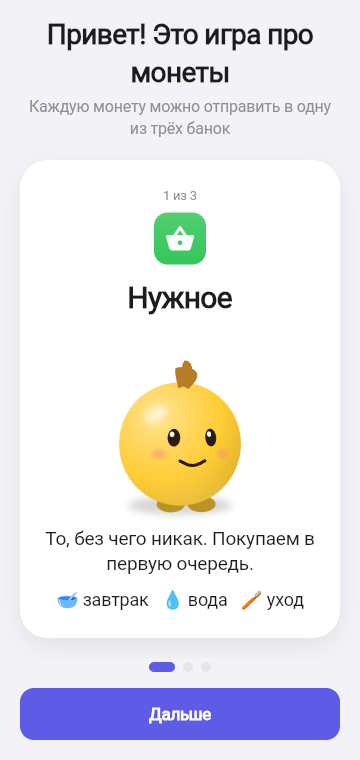
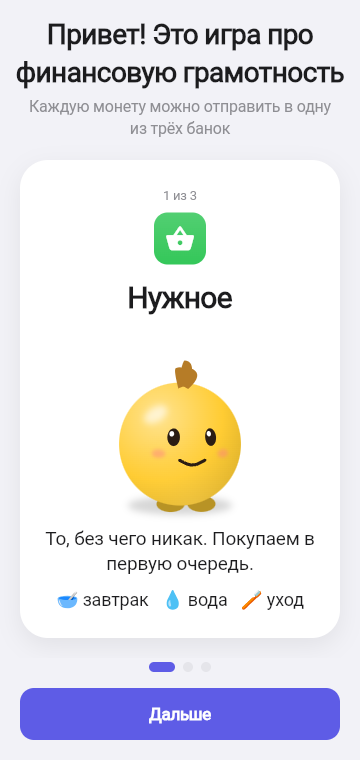
F-038: onboarding — 'a game about financial literacy' title, the pet greets the player in 4 lines (clean and happy) before the first day's wishes

Changed region(s): [[0.0306, 0.0605, 0.9472, 0.1211], [0.5194, 0.6053, 0.55, 0.6355], [0.4583, 0.5447, 0.4889, 0.575]]

diff --git a/client/lib/ui/tabs/home_tab.dart b/client/lib/ui/tabs/home_tab.dart
@@ -36,6 +36,9 @@ class _HomeTabState extends State<HomeTab> {
 
   /// Реплика о самочувствии после тапа по герою (F-020 BR-07).
   String? _moodLine;
+
+  /// Шаг знакомства героя с игроком (F-038).
+  int _greet = 1;
   int _moodGen = 0;
 
   void _sayMood() {
@@ -76,18 +79,27 @@ class _HomeTabState extends State<HomeTab> {
               child: RoomScene(
                 inventory: game.inventory,
                 bowls: game.bowls,
-                time: wish.dayTime, // утро → день → вечер → ночь по шагам дня (F-028)
+                time: game.greeting ? DayTime.morning : wish.dayTime, // утро → день → вечер → ночь по шагам дня (F-028)
                 room: room,
                 feetY: feetY,
                 heroScale: 0.78,
                 hero: MascotView(
-                  look: MascotLook.fromGame(game).withEmotion(_moodLine == null ? wish.emotion : null),
+                  look: MascotLook.fromGame(game).withEmotion(
+                    game.greeting ? PetEmotion.excited : (_moodLine == null ? wish.emotion : null),
+                  ),
                   controller: _mascot,
                   size: heroSize,
                   semanticsLabel: name,
                   onTap: _sayMood,
                 ),
-                heroBadge: _moodLine != null
+                heroBadge: game.greeting
+                    ? PetSpeech(
+                        text: game.content.text('greet.$_greet', {'pet': name, 'player': game.profile.playerName}),
+                        action: game.content.text('greet.$_greet.action'),
+                        actionKey: const Key('home.greet'),
+                        onAction: _nextGreet,
+                      )
+                    : _moodLine != null
                     ? PetSpeech(text: _moodLine!)
                     : PetSpeech(
                         text: wish.text,
@@ -201,6 +213,15 @@ class _HomeTabState extends State<HomeTab> {
       ],
     ),
   );
+
+  void _nextGreet() {
+    _mascot.jump();
+    if (_greet < 4) {
+      setState(() => _greet++);
+    } else {
+      game.finishGreeting();
+    }
+  }
 
   Color _accent(WishKind kind) => switch (kind) {
     WishKind.eat || WishKind.drink || WishKind.wash => FinniColors.need,

diff --git a/client/lib/store/snapshot.dart b/client/lib/store/snapshot.dart
@@ -259,6 +259,7 @@ final class GameSnapshot {
     this.needsDays = const [],
     this.dailyQuests = const [],
     this.claimed = const [],
+    this.introDone = true,
   });
 
   static const version = 1;
@@ -294,6 +295,7 @@ final class GameSnapshot {
       needsDays: [for (final d in j['needsDays'] as List? ?? const []) d as int],
       dailyQuests: _strings(j['dailyQuests'] ?? const <String>[]),
       claimed: _strings(j['claimed'] ?? const <String>[]),
+      introDone: j['introDone'] as bool? ?? true,
     );
   }
 
@@ -334,6 +336,9 @@ final class GameSnapshot {
   /// Забранные награды заданий: `d<день>:<id>`, `w<неделя>:<id>` (F-036).
   final List<String> claimed;
 
+  /// Знакомство с героем уже было (F-038). Старые сохранения — `true`.
+  final bool introDone;
+
   GameSnapshot copyWith({
     Profile? profile,
     EconomyState? economy,
@@ -357,6 +362,7 @@ final class GameSnapshot {
     List<int>? needsDays,
     List<String>? dailyQuests,
     List<String>? claimed,
+    bool? introDone,
   }) => GameSnapshot(
     profile: profile ?? this.profile,
     economy: economy ?? this.economy,
@@ -377,6 +383,7 @@ final class GameSnapshot {
     needsDays: needsDays ?? this.needsDays,
     dailyQuests: dailyQuests ?? this.dailyQuests,
     claimed: claimed ?? this.claimed,
+    introDone: introDone ?? this.introDone,
   );
 
   Map<String, dynamic> toJson() => {
@@ -400,5 +407,6 @@ final class GameSnapshot {
     'needsDays': needsDays,
     'dailyQuests': dailyQuests,
     'claimed': claimed,
+    'introDone': introDone,
   };
 }

diff --git a/client/test/game/game_controller_test.dart b/client/test/game/game_controller_test.dart
@@ -9,6 +9,7 @@ import 'package:finni/game/game_feedback.dart';
 import 'package:finni/game/quests.dart';
 import 'package:finni/content/lesson_models.dart';
 import 'package:finni/store/profile_store.dart';
+import 'package:finni/store/snapshot.dart';
 import 'package:flutter_test/flutter_test.dart';
 
 GameContent loadContent() => GameContent.fromJson({
@@ -422,6 +423,15 @@ void main() {
     expect(restarted.day, 6);
     expect(restarted.stage, 3);
     expect(restarted.economy.savings, game.economy.savings);
+  });
+
+  test('a new pet greets the player once (F-038)', () async {
+    expect(game.greeting, isTrue);
+    await game.finishGreeting();
+    expect(game.greeting, isFalse);
+    expect((await fresh()).greeting, isFalse);
+    final json = game.snapshot.toJson()..remove('introDone');
+    expect(GameSnapshot.fromJson(json).introDone, isTrue); // старые сохранения — без знакомства
   });
 
   test('every change is persisted', () async {

diff --git a/client/lib/game/game_controller.dart b/client/lib/game/game_controller.dart
@@ -141,6 +141,7 @@ final class GameController extends ChangeNotifier {
         lastSummary: null,
         soundOn: true,
         dailyQuests: [for (final q in pickDailyQuests(day: 1, hasNewTopic: true, hasStarted: false)) q.name],
+        introDone: false,
       ),
     );
   }
@@ -152,6 +153,10 @@ final class GameController extends ChangeNotifier {
   }
 
   Future<void> setSound(bool on) => _commit(snapshot.copyWith(soundOn: on));
+
+  /// Герой ещё не познакомился с игроком (F-038).
+  bool get greeting => !snapshot.introDone;
+  Future<void> finishGreeting() => _commit(snapshot.copyWith(introDone: true));
 
   // ---------- Облик (SA F-023) ----------
 

diff --git a/client/lib/ui/screens/intro_screen.dart b/client/lib/ui/screens/intro_screen.dart
@@ -58,7 +58,7 @@ class _IntroScreenState extends State<IntroScreen> {
           children: [
             const SizedBox(height: 16),
             Text(
-              widget.replay ? 'Как играть' : 'Привет! Это игра про монеты',
+              widget.replay ? 'Как играть' : 'Привет! Это игра про финансовую грамотность',
               textAlign: TextAlign.center,
               style: const TextStyle(fontSize: 28, fontWeight: FontWeight.w700, letterSpacing: -0.6),
             ),

diff --git a/client/test/ui/app_flow_test.dart b/client/test/ui/app_flow_test.dart
@@ -54,6 +54,11 @@ Future<void> onboard(WidgetTester t, String name) async {
   await t.enterText(find.byKey(const Key('hero.player')), name);
   await tapKey(t, 'hero.go');
   await settle(t, 20);
+  // F-038: герой знакомится — 4 реплики, потом обычный день.
+  for (var i = 0; i < 4; i++) {
+    await tapKey(t, 'home.greet');
+  }
+  expect(find.byKey(const Key('home.greet')), findsNothing);
 }
 
 Future<void> phone(WidgetTester t) async {

diff --git a/client/lib/ui/mascot/mascot_look.dart b/client/lib/ui/mascot/mascot_look.dart
@@ -47,7 +47,7 @@ final class MascotLook {
       accessories: {
         for (final id in game.inventory.worn) ?content.item(id).accessory,
       },
-      grubby: game.isGrubby,
+      grubby: game.isGrubby && !game.greeting, // на знакомстве герой чистый (F-038)
       joy: game.todaysJoy,
     );
   }

diff --git a/docs/work/ui/F-038_PET_GREETING_SA_SPEC.md b/docs/work/ui/F-038_PET_GREETING_SA_SPEC.md
@@ -1,0 +1,43 @@
+# Знакомство с питомцем после создания — системная спецификация (SA)
+
+| Поле | Значение |
+|------|----------|
+| **ID** | F-038 |
+| **Назначение** | Первый вход на Дом начинается со знакомства: герой здоровается, называет себя, рассказывает, чему будем учиться и как устроен день. Только потом — обычные желания дня |
+| **Репозиторий** | `Pet_Finni_hackathon` |
+| **Источник** | Запрос Егора 2026-09-24: «нужен онбординг: создал персонажа — он сразу воняет, хочет есть и пить, непонятно, что и как; надо, чтобы персонаж знакомился: „Привет, я твой питомец…, мы будем вместе изучать финансовую грамотность“; на старте — „игра про финансовую грамотность“» |
+| **Статус** | Согласовано Егором 2026-09-24 |
+| **Связанные артефакты** | F-008 (знакомство), F-020 (желания), F-023 (настройка), F-027 (неухоженный) |
+
+---
+
+## 3. Бизнес-требования
+
+| ID | Требование | Приоритет |
+|----|------------|-----------|
+| BR-01 | Первый экран знакомства: «Привет! Это игра про финансовую грамотность» | Must |
+| BR-02 | После создания героя на Доме — 4 реплики героя в облачке, каждая с кнопкой: знакомство («Привет, {игрок}! Я {питомец} — твой питомец»), чему учимся, как устроен день, главное правило | Must |
+| BR-03 | Во время знакомства герой чистый и радостный: без грязи и без голодных эмоций | Must |
+| BR-04 | После последней реплики («Начнём!») — обычная цепочка желаний, первое — план с подписанным доходом | Must |
+| BR-05 | Знакомство показывается один раз; сохраняется; старые сохранения его не видят | Must |
+
+## 4. Описание
+
+| Шаг | Реплика | Кнопка |
+|-----|---------|--------|
+| 1 | Привет, {игрок}! Я {питомец} — твой питомец. Будем знакомы! | Привет! |
+| 2 | Мы вместе будем учиться финансовой грамотности: планировать монеты, копить на мечту и выбирать с умом. | Здорово! |
+| 3 | Каждый день я буду о чём-то просить: покушать, помыться, узнать новое. А ты решаешь, на что потратить монеты. | Понятно |
+| 4 | Главное правило: сначала нужное, потом хотелки. Начнём? | Начнём! |
+
+| Слой | Путь |
+|------|------|
+| Хранение | `store/snapshot.dart` (`introDone`, по умолчанию `true` для старых сохранений) |
+| Контроллер | `game/game_controller.dart` (`greeting`, `finishGreeting`) |
+| Дом | `ui/tabs/home_tab.dart` (реплики `greet.*`, ключ `home.greet`) |
+| Маскот | `ui/mascot/mascot_look.dart` (без грязи во время знакомства) |
+| Тексты | `assets/content/copy.json` (`greet.1…4`, `greet.1.action…`) |
+
+## 9. Тестирование
+
+`game_controller_test`: новый профиль — `greeting`, после `finishGreeting` — нет и сохраняется; старый JSON без поля — без знакомства; `app_flow_test`: знакомство проходится на 360 dp, затем «План».

diff --git a/docs/business/01_START_AND_FINIK.md b/docs/business/01_START_AND_FINIK.md
@@ -9,7 +9,7 @@
 ## Как это работает
 
 1. **Кто заходит?** Ребёнок или взрослый. Взрослый попадает в раздел прогресса за удержанием кнопки 3 секунды (без оценок, со сбросом профиля).
-2. **Знакомство** — три карточки: нужное, хочу, отложить.
+2. **«Привет! Это игра про финансовую грамотность»** — три карточки: нужное, хочу, отложить.
 3. **Настрой Финика** — живой 3D-герой в центре и выбор:
    - открыты сразу: **Финик** (хохолок / чёлка / пучки), **Котик** (ушки и усики), **Зайка** (длинные ушки), **Мишка** (круглые ушки и носик);
    - **Жираф** (рожки и пятнышки) — копится: цель «Облик Жираф» в Копилке, 45 монет;
@@ -19,6 +19,17 @@
    - 8 цветов палитры (у Мартышки свой цвет);
    - имя героя и игровое имя ребёнка (фамилия и телефон не нужны).
 4. Позже облик меняется бесплатно: **Одежда → Облик** (четвёртый скриншот).
+5. **Знакомство.** На Доме герой — чистый и радостный — здоровается и рассказывает о игре, четыре реплики с кнопками:
+   - «Привет, Аня! Я Финя — твой питомец. Будем знакомы!» — «Привет!»
+   - «Мы вместе будем учиться финансовой грамотности: планировать монеты, копить на мечту и выбирать с умом.» — «Здорово!»
+   - «Каждый день я буду о чём-то просить: покушать, помыться, узнать новое. А ты решаешь, на что потратить монеты.» — «Понятно»
+   - «Главное правило: сначала нужное, потом хотелки. Начнём?» — «Начнём!»
+
+   Только после этого начинается обычный день: первое желание — план с подписанным доходом «40 на старт и 20 карманных».
+
+<p>
+<img src="img/home_greet.png" width="200"> <img src="img/home_plan.png" width="200">
+</p>
 
 ## Правила
 
@@ -29,4 +40,4 @@
 | Смена облика | бесплатно, монеты не тратятся |
 | Данные | только игровое имя и имя героя, хранятся на устройстве |
 
-SA: [F-023](../work/ui/F-023_FINIK_STYLE_SA_SPEC.md), [F-008](../work/ui/F-008_ONBOARDING_SA_SPEC.md).
+SA: [F-023](../work/ui/F-023_FINIK_STYLE_SA_SPEC.md), [F-038](../work/ui/F-038_PET_GREETING_SA_SPEC.md), [F-037](../work/ui/F-037_MORE_CHARACTERS_SA_SPEC.md), [F-008](../work/ui/F-008_ONBOARDING_SA_SPEC.md).

diff --git a/docs/work/README.md b/docs/work/README.md
@@ -54,6 +54,7 @@
 | F-035 | Один блок уроков в день | [ui/F-035](ui/F-035_LESSON_BLOCK_PER_DAY_SA_SPEC.md) | `game/game_controller.dart`, `ui/tabs/lessons_tab.dart` | `game_controller_test`, `lesson_test` |
 | F-036 | Игра по желанию, монеты за задания | [game/F-036](game/F-036_PLAY_OPTIONAL_QUEST_REWARDS_SA_SPEC.md) | `game/pet_wish.dart`, `game/game_controller.dart`, `ui/tabs/tasks_tab.dart` | `game_controller_test`, `pet_wish_test` |
 | F-037 | Больше персонажей | [ui/F-037](ui/F-037_MORE_CHARACTERS_SA_SPEC.md) | `ui/mascot/`, `ui/screens/create_hero_screen.dart` | `game_controller_test`, `mascot_test` |
+| F-038 | Знакомство с питомцем | [ui/F-038](ui/F-038_PET_GREETING_SA_SPEC.md) | `ui/tabs/home_tab.dart`, `store/snapshot.dart` | `game_controller_test`, `app_flow_test` |
 
 **Пайплайн:** brainstorming → design spec + SA → writing-plans (одна подсистема) → TDD → проверка.  
 См. `.cursor/rules/delivery-workflow.mdc` и `superpowers-workflow.mdc`.

diff --git a/client/README.md b/client/README.md
@@ -73,4 +73,4 @@ lib/
 ## Документация
 
 - Механики для бизнеса: [`docs/business`](../docs/business/README.md)
-- SA по каждой истории F-002 … F-037: [`docs/work/README.md`](../docs/work/README.md)
+- SA по каждой истории F-002 … F-038: [`docs/work/README.md`](../docs/work/README.md)
